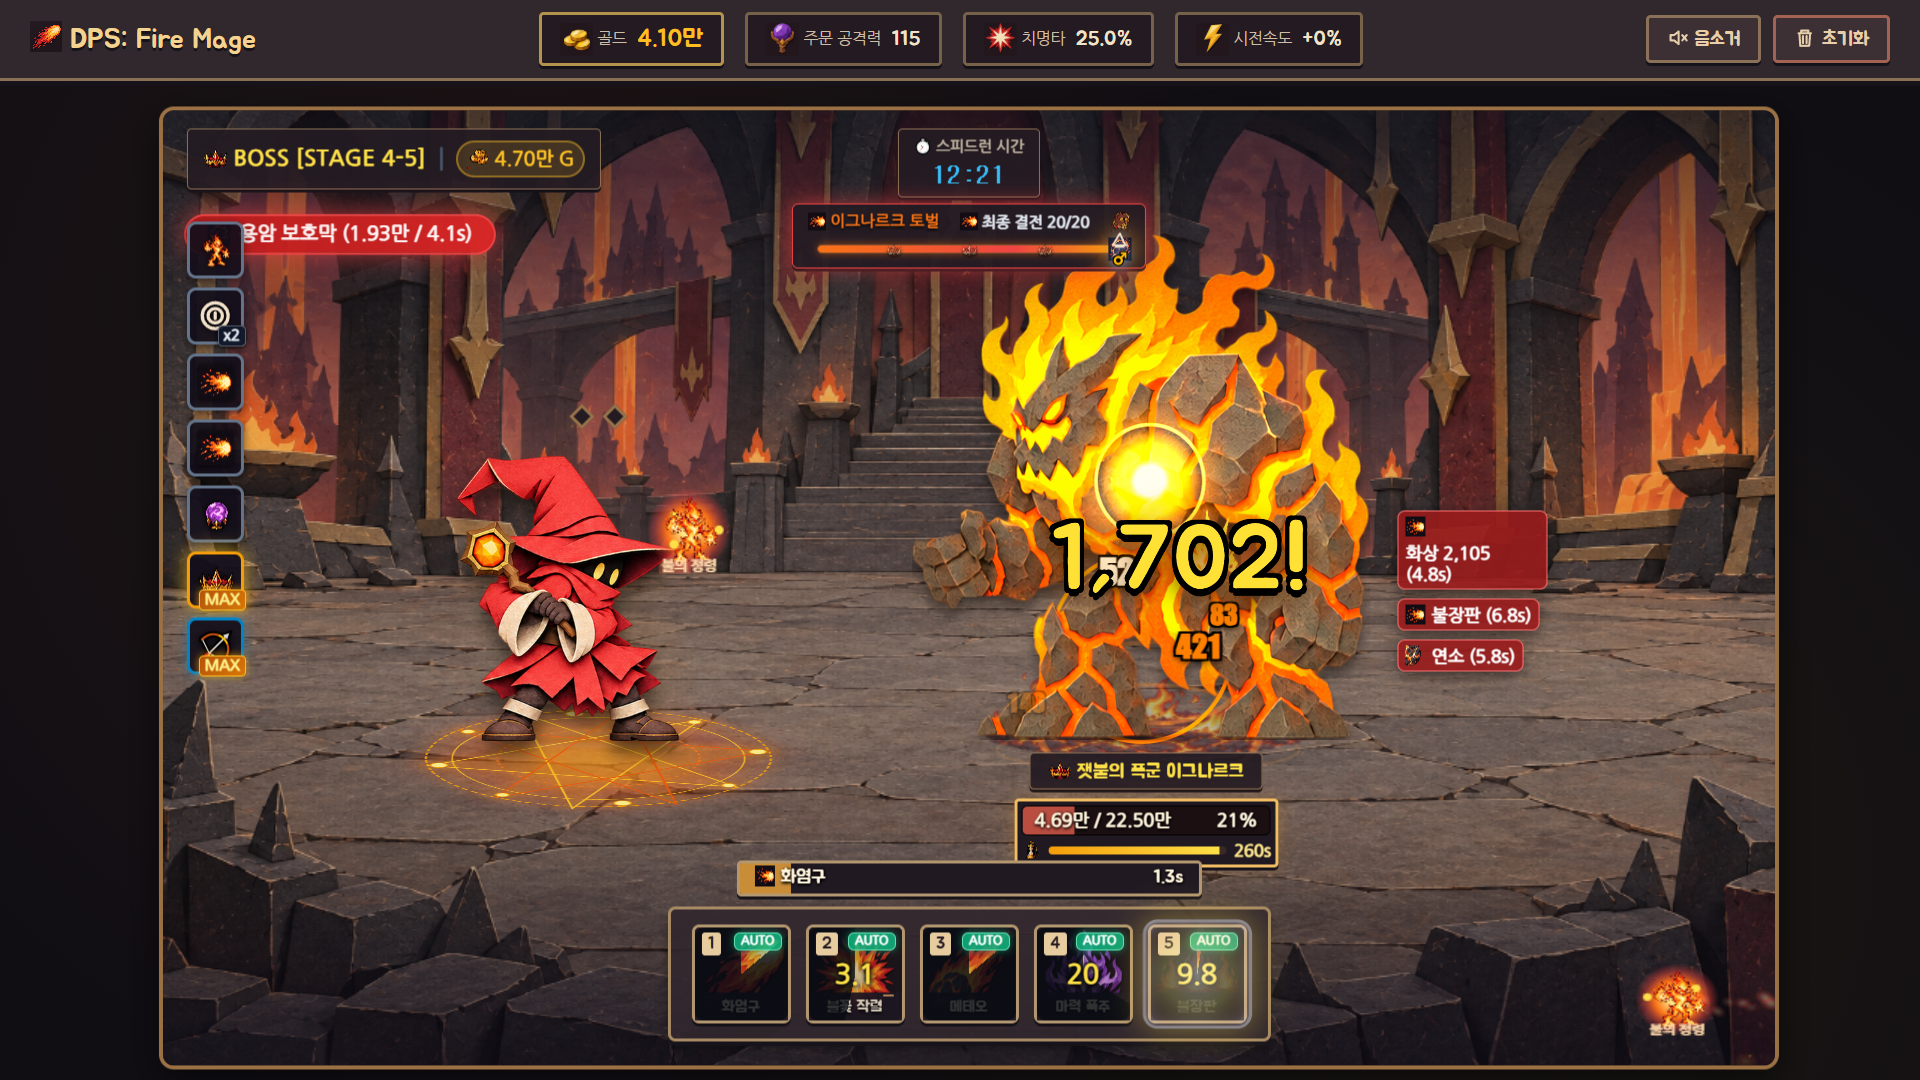
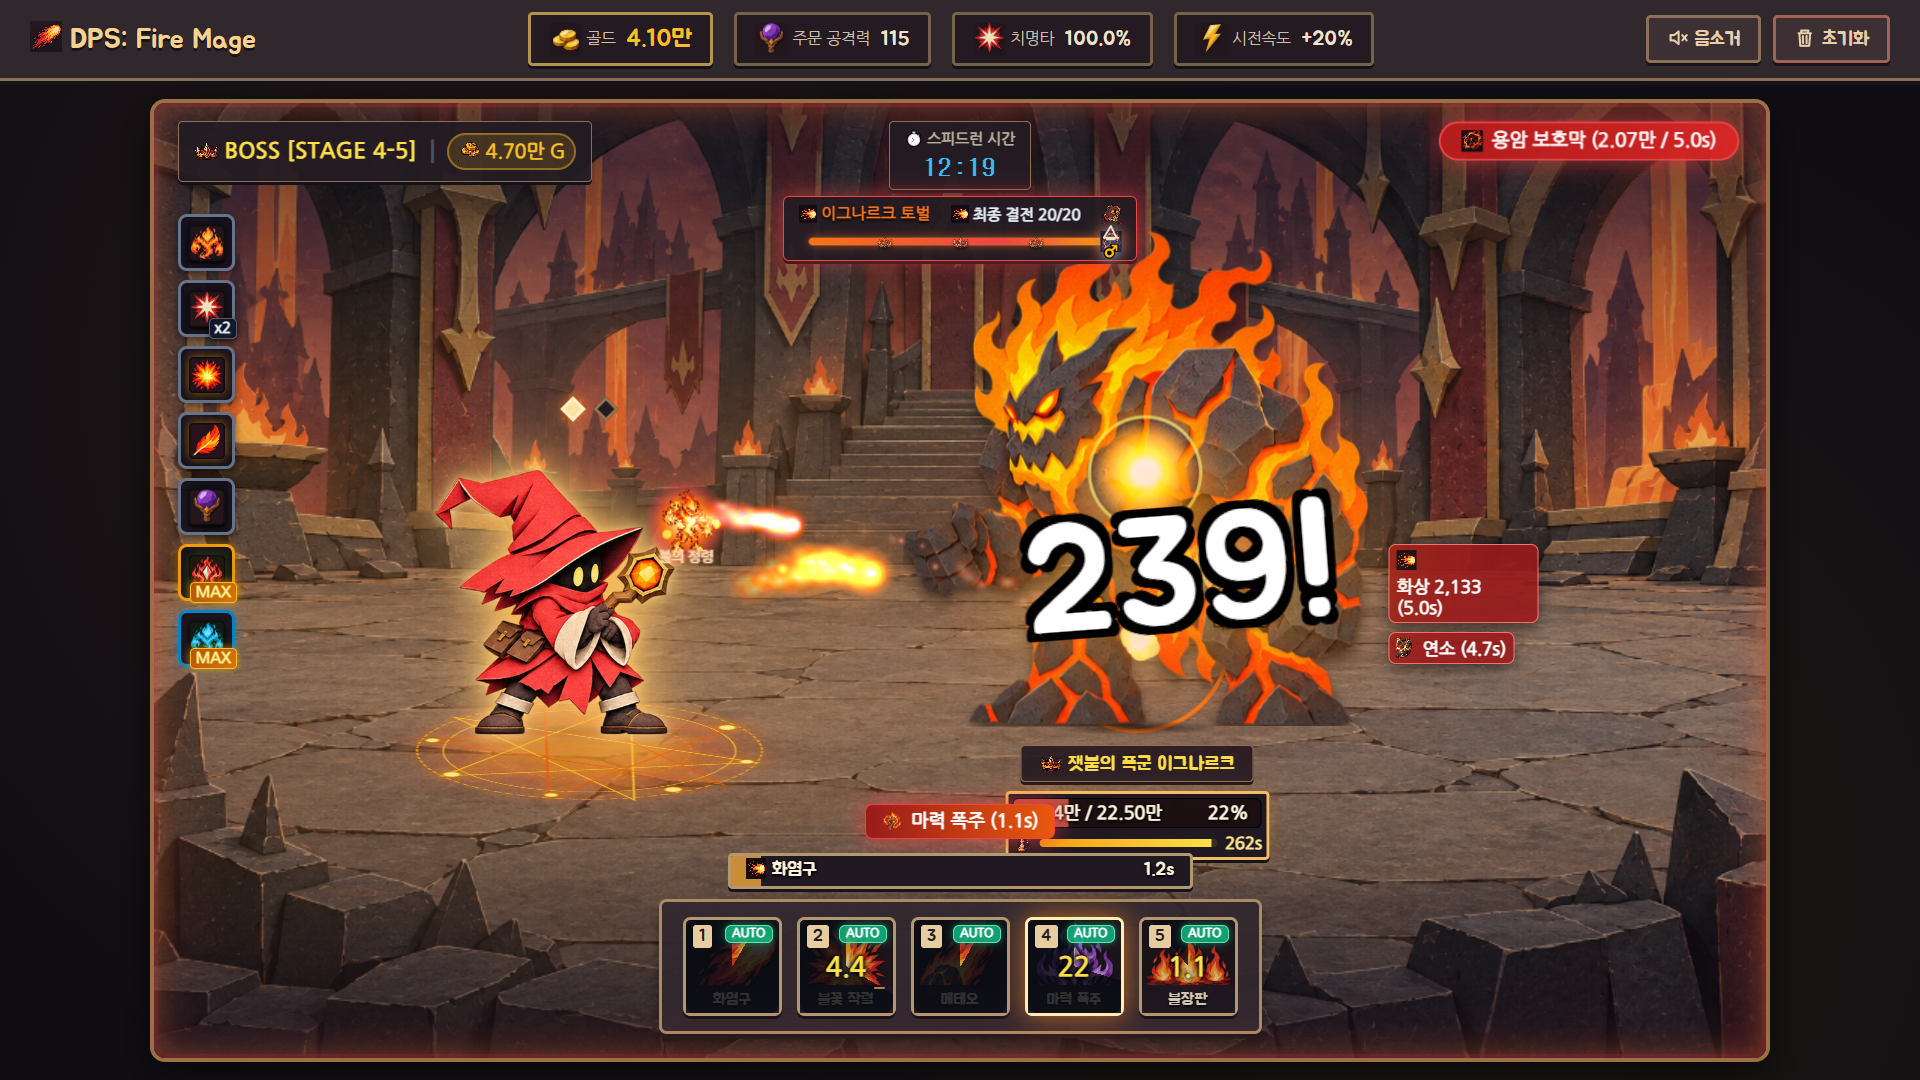
fix: 각성 카드 아이콘·보스 기믹 배지 겹침·배포 빌드 개발 버튼 정리
- 각성 카드 27종을 시스템 이모지 대신 종이 원화 아이콘(스킬·스탯 시트)으로 표시, 같은 원화는 색조로 구분
- 덱 툴팁 스탯 표기 수정: 치명 피해가 배율로 100배(+3500%) 표시되던 문제, spPct·spiritPct·burnPct 원본 키 노출 제거
- 화상 빌드 카드에 빌드 이름표 추가(기존 '특수'로 표시)
- 최종 보스 용암 보호막 배지를 덱 아이콘 줄과 겹치지 않는 오른쪽 위로 이동(모바일은 가운데)
- Steam 배포 빌드에서만 밸런스 로그 버튼 제거, 스모크 테스트로 빌드 종류별 노출 검증
- 변경된 스토어 스크린샷 2장(최종 보스·각성 카드) 재촬영

diff --git a/src/scripts/game.js b/src/scripts/game.js
@@ -3094,6 +3094,7 @@ function showDeckTooltip(card, targetEl) {
     rapid: '⚡ 속사 머신건',
     crit: '🎯 극치명 누킹',
     summon: '🔥 정령 군단',
+    burn: '♨ 화상 확산',
     utility: '✨ 유틸리티'
   };
   const buildLabel = buildNames[build] || build;
@@ -3104,18 +3105,18 @@ function showDeckTooltip(card, targetEl) {
   let statsHtml = '';
   if (stats && typeof stats === 'object') {
     const chips = [];
+    // 카드 스탯은 모두 정수 퍼센트입니다(밸런스 패치 v2).
     const statLabels = {
-      sp: '주문력',
-      haste: '가속도',
+      spPct: '주문력',
+      haste: '시전 속도',
       crit: '치명타율',
-      critDmg: '치명피해',
-      goldBonus: '골드보너스'
+      critDmg: '치명 피해',
+      spiritPct: '소환수 피해',
+      burnPct: '지속 피해'
     };
     for (const [key, val] of Object.entries(stats)) {
-      // 치명피해·골드보너스는 배율(0.6 = +60%)로 저장되므로 백분율로 환산해 표시
-      const isRatio = key === 'critDmg' || key === 'goldBonus';
-      const totalVal = typeof val === 'number' ? Math.round(val * card.count * (isRatio ? 100 : 1) * 10) / 10 : val;
-      const unit = (key === 'sp') ? '' : '%';
+      const totalVal = typeof val === 'number' ? val * card.count : val;
+      const unit = '%';
       const sign = (typeof totalVal === 'number' && totalVal > 0) ? '+' : '';
       chips.push(`<span class="vtt-stat-chip">${statLabels[key] || key} ${sign}${totalVal}${unit} (누적)</span>`);
     }
@@ -3126,7 +3127,7 @@ function showDeckTooltip(card, targetEl) {
 
   tooltip.innerHTML = `
     <div class="vtt-header">
-      <span class="vtt-icon">${icon}</span>
+      <span class="vtt-icon">${paperCardIconHTML(liveCard)}</span>
       <div class="vtt-title-box">
         <span class="vtt-title">${title}</span>
         <div class="vtt-meta-row">
@@ -3206,7 +3207,7 @@ function renderDeckStripUI() {
     const badgeHtml = badgeText ? `<span class="vampire-deck-badge ${isMax ? 'is-max' : ''}">${badgeText}</span>` : '';
 
     slot.innerHTML = `
-      <span class="vampire-deck-icon">${c.icon}</span>
+      <span class="vampire-deck-icon">${paperCardIconHTML(c)}</span>
       ${badgeHtml}
     `;
 
@@ -3287,6 +3288,7 @@ function renderAwakeningChoicesUI(choices, isBossWave = false) {
       if (card.build === RoguelikeDeck.BUILD.RAPID) buildBadgeText = '⚡ 속사 머신건';
       else if (card.build === RoguelikeDeck.BUILD.CRIT) buildBadgeText = '🎯 극치명 누킹';
       else if (card.build === RoguelikeDeck.BUILD.SUMMON) buildBadgeText = '🔥 정령 군단';
+      else if (card.build === RoguelikeDeck.BUILD.BURN) buildBadgeText = '♨ 화상 확산';
       else if (card.build === RoguelikeDeck.BUILD.UTILITY) buildBadgeText = '✨ 유틸리티';
     }
 
@@ -3294,7 +3296,7 @@ function renderAwakeningChoicesUI(choices, isBossWave = false) {
       <div class="awakening-card ${rarityClass}" data-card-id="${card.id}">
         <div class="card-rarity-badge">${rarityMeta.name}</div>
         ${stackBadge}
-        <div class="card-icon">${card.icon}</div>
+        <div class="card-icon">${paperCardIconHTML(card)}</div>
         <div class="card-name">${card.title}</div>
         <div class="card-build-tag">${buildBadgeText}</div>
         <div class="card-desc">${card.desc}</div>
@@ -4341,6 +4343,10 @@ function initEvents() {
   window.addEventListener('keydown', unlockBgmOnInteract);
 
   // 플레이테스트 밸런스 텔레메트리 클립보드 복사 이벤트
+  // 밸런스 로그(플레이테스트 텔레메트리)는 웹 플레이테스트와 개발 실행용입니다. Steam 배포 빌드에서는 버튼을 없앱니다.
+  if (window.desktopApp && window.desktopApp.isPackaged) {
+    ['btn-export-telemetry', 'btn-victory-export-telemetry'].forEach((id) => document.getElementById(id)?.remove());
+  }
   const exportTelemetryBtn = document.getElementById('btn-export-telemetry');
   if (exportTelemetryBtn) {
     exportTelemetryBtn.addEventListener('click', () => playtestTelemetry.copyToClipboard());

diff --git a/src/styles/paper-ui.css b/src/styles/paper-ui.css
@@ -8,7 +8,8 @@
 .arena-top-stage-header .arena-stage-reward-banner { grid-column: 1; grid-row: 1; justify-self: start; max-width: 100%; padding: 7px 10px; gap: 8px; }
 .arena-top-stage-header .monster-stage-mini { font-size: .88rem; }
 .arena-top-stage-header .monster-reward { font-size: .8rem; padding: 3px 6px; }
-.arena-top-stage-header .boss-gimmick-badge { grid-column: 1; grid-row: 2; justify-self: start; max-width: 100%; white-space: normal; }
+/* 보스 기믹 배지는 왼쪽 덱 아이콘 줄(.deck-strip-container, 고정 위치)과 겹치지 않도록 비어 있는 오른쪽 위에 둡니다. */
+.arena-top-stage-header .boss-gimmick-badge { grid-column: 3; grid-row: 1; justify-self: end; max-width: 100%; white-space: normal; }
 
 /* 최종 보스 세계 멸망 저지 진척도 트래커 (Doom Tracker) */
 .doom-tracker { position: relative; width: 236px; padding: 5px 10px 7px 10px; background: #241b22ed; border: 1px solid #8b7055; border-radius: 4px; box-shadow: 0 2px 0 #151119; cursor: pointer; user-select: none; transition: border-color .16s ease-out, box-shadow .16s ease-out; }
@@ -51,7 +52,7 @@
   .arena-top-stage-header .speedrun-stat-box { padding: 3px 8px; }
   .doom-tracker { width: 180px; padding: 3px 6px; }
   .arena-top-stage-header .arena-stage-reward-banner { grid-column: 1; grid-row: 2; gap: 5px; padding: 6px; flex-wrap: wrap; }
-  .arena-top-stage-header .boss-gimmick-badge { grid-column: 1; grid-row: 3; font-size: .6rem; }
+  .arena-top-stage-header .boss-gimmick-badge { grid-column: 1 / -1; grid-row: 3; justify-self: center; font-size: .6rem; }
 }
 .top-bar { background: #30282c; border-bottom: 2px solid #8b7055; box-shadow: 0 3px 0 #17131b; }
 .game-title { color: #f3d391; text-shadow: 0 2px #17131b; }
@@ -119,3 +120,16 @@
   .action-bar .skill-btn:hover, .action-bar .skill-btn:active { transform: none; }
   .wow-proc-svg .proc-beam-trail, .wow-proc-svg .proc-beam-head { animation: none; }
 }
+/* 각성 카드 종이 아이콘(3×2 시트). 같은 원화를 쓰는 카드는 tone으로 구분합니다:
+   cursed=대가형(보라), blaze=강화(밝은 불꽃), charge=충전형(푸른 불), crimson=전설·처형(진홍), ruby=보라 원화를 진홍으로(진홍의 마력 폭주). */
+.paper-card-icon { display: inline-block; width: 1.6em; height: 1.6em; vertical-align: middle; border-radius: 18%; background-repeat: no-repeat; background-size: 300% 200%; box-shadow: inset 0 0 0 1px #0006, 0 2px 0 #0005; }
+.paper-card-icon[data-sheet='skills'] { background-image: url('../../assets/art/paper-ui-skills-v1.png'); }
+.paper-card-icon[data-sheet='stats'] { background-image: url('../../assets/art/paper-ui-stats-v1.png'); }
+.paper-card-icon[data-tone='cursed'] { filter: hue-rotate(235deg) saturate(.85) brightness(.95); }
+.paper-card-icon[data-tone='blaze'] { filter: saturate(1.35) brightness(1.15) contrast(1.05); box-shadow: inset 0 0 0 1px #0006, 0 0 6px #ff9a3a99; }
+.paper-card-icon[data-tone='charge'] { filter: hue-rotate(170deg) saturate(1.1) brightness(1.05); }
+.paper-card-icon[data-tone='ruby'] { filter: hue-rotate(80deg) saturate(1.6) brightness(1.05); box-shadow: inset 0 0 0 1px #0006, 0 0 7px #ff2a2a88; }
+.paper-card-icon[data-tone='crimson'] { filter: hue-rotate(-18deg) saturate(1.7) brightness(.92); box-shadow: inset 0 0 0 1px #0006, 0 0 7px #ff2a2a88; }
+.card-icon .paper-card-icon { width: 64px; height: 64px; }
+.vampire-deck-icon .paper-card-icon { width: 24px; height: 24px; border-radius: 3px; }
+.vtt-icon .paper-card-icon { width: 30px; height: 30px; }

diff --git a/src/scripts/comic-assets.js b/src/scripts/comic-assets.js
@@ -28,6 +28,24 @@ function comicIconHTML(token) {
  const spell=typeof key==='string';const index=spell?Number(key.slice(1)):key;const cols=spell?2:4;
  return `<span class="comic-icon" aria-hidden="true" data-sheet="${spell?'spell':'equipment'}" style="background-position:${index%cols/(cols-1)*100}% ${Math.floor(index/cols)/(cols-1)*100}%"></span>`;
 }
+// 각성 카드 아이콘: 시스템 이모지 대신 종이 원화 아이콘 시트(3×2)를 카드 ID로 고릅니다.
+// 카드 데이터(엑셀·JSON)의 icon 이모지는 그대로 두고, 화면에서만 종이 아이콘으로 바꿔 그립니다.
+// tone은 같은 원화를 쓰는 카드끼리 대가형·전설 등을 색으로 구분합니다.
+const PAPER_CARD_ICONS = {
+ rapid_spark:['stats',5], rapid_split:['skills',0], rapid_overload:['stats',5,'cursed'], rapid_quickdraw:['skills',0,'charge'], rapid_gatling:['skills',0,'blaze'],
+ spell_fireblast:['skills',1], crit_focus:['stats',4], crit_heat:['skills',1,'blaze'], crit_reckless:['stats',4,'cursed'],
+ spell_meteor:['skills',2], crit_meteor_storm:['skills',2,'blaze'], crit_meteor_charge:['skills',2,'charge'],
+ spell_combustion:['skills',3], crit_crimson_frenzy:['skills',3,'ruby'],
+ sum_spirit:['skills',5], sum_fury:['skills',5,'blaze'], sum_volley:['skills',5,'charge'], sum_pact:['skills',5,'cursed'], sum_cinder_lord:['skills',5,'crimson'],
+ burn_ignite:['stats',2,'blaze'], spell_flame_patch:['skills',4], burn_spread:['skills',4,'charge'], burn_wildfire:['skills',4,'crimson'],
+ util_power:['stats',3], util_executioner:['stats',4,'crimson'], util_glass_cannon:['stats',1], util_phoenix_reborn:['stats',2]
+};
+function paperCardIconHTML(card) {
+ const entry = card && PAPER_CARD_ICONS[card.id];
+ if(!entry) return (card && card.icon) || '🃏';
+ const [sheet,index,tone] = entry;
+ return `<span class="paper-card-icon" data-sheet="${sheet}"${tone?` data-tone="${tone}"`:''} style="background-position:${index%3*50}% ${Math.floor(index/3)*100}%" aria-hidden="true"></span>`;
+}
 function decorateComicUI(root) {
  if(!root || (root.nodeType!==1 && root.nodeType!==3))return;
  if(root.nodeType===1 && root.closest('script,style,canvas,.dummy-emoji,.material-death,.comic-icon,.comic-vector,.skill-icon'))return;

diff --git a/index.html b/index.html
@@ -9,7 +9,7 @@
   <title>DPS: Fire Mage</title>
   <link rel="stylesheet" href="src/styles/styles.css?v=balance-v2-3" />
   <link rel="stylesheet" href="src/styles/art.css?v=final-boss-1" />
-  <link rel="stylesheet" href="src/styles/paper-ui.css?v=final-boss-1" />
+  <link rel="stylesheet" href="src/styles/paper-ui.css?v=card-icons-2" />
 </head>
 <body>
   <!-- 간소화된 상단 상태바 -->
@@ -384,12 +384,12 @@
   <script src="src/scripts/paper-monster-frames.js?v=final-boss-1"></script>
   <div id="skill-tooltip" class="skill-tooltip" role="tooltip" hidden></div>
   <div id="deck-vampire-tooltip" class="deck-vampire-tooltip hidden" role="tooltip"></div>
-  <script src="src/scripts/comic-assets.js?v=final-boss-1"></script>
+  <script src="src/scripts/comic-assets.js?v=card-icons-1"></script>
   <script src="src/scripts/monster-motion.js?v=final-boss-1"></script>
   <script src="src/scripts/skill-tooltips.js?v=balance-v2-3"></script>
   <script src="src/scripts/arena-environment.js?v=paper-arenas-1"></script>
   <script src="src/scripts/roguelike-deck.js?v=balance-v2-3"></script>
   <script src="src/scripts/save-storage.js?v=desktop-save-1"></script>
-  <script src="src/scripts/game.js?v=desktop-save-1"></script>
+  <script src="src/scripts/game.js?v=card-icons-1"></script>
 </body>
 </html>

diff --git a/docs/steam-store/README.md b/docs/steam-store/README.md
@@ -37,4 +37,4 @@ npx electron scripts/store/render-capsules.cjs               # → dist/store-ca
 - 새로 그린 일러스트가 아니라 게임 원화를 조합했습니다. 캡슐은 클릭률을 가장 크게 좌우하므로 출시 전 전용 키아트를 권장합니다.
 - 라이브러리 히어로(3840px)는 원화를 약 2배 확대해 써서 가까이 보면 부드럽게 뭉개집니다.
 - 로고는 Jua 글꼴로 만든 문자 로고입니다. "DPS: Fire Mage"의 콜론은 디자인상 생략했습니다.
-- 각성 카드 아이콘이 시스템 이모지라 카드 선택 스크린샷(04)의 완성도가 다른 장면보다 낮아 보입니다.
+- (해결) 각성 카드 아이콘을 종이 원화 아이콘으로 바꾼 뒤 카드 선택 스크린샷(04)을 다시 찍었습니다.
